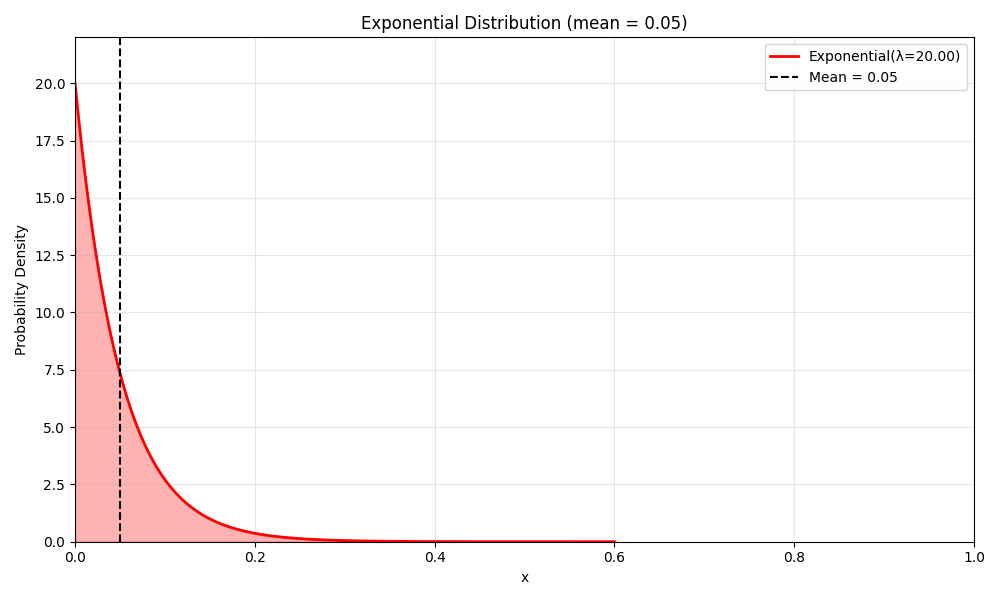
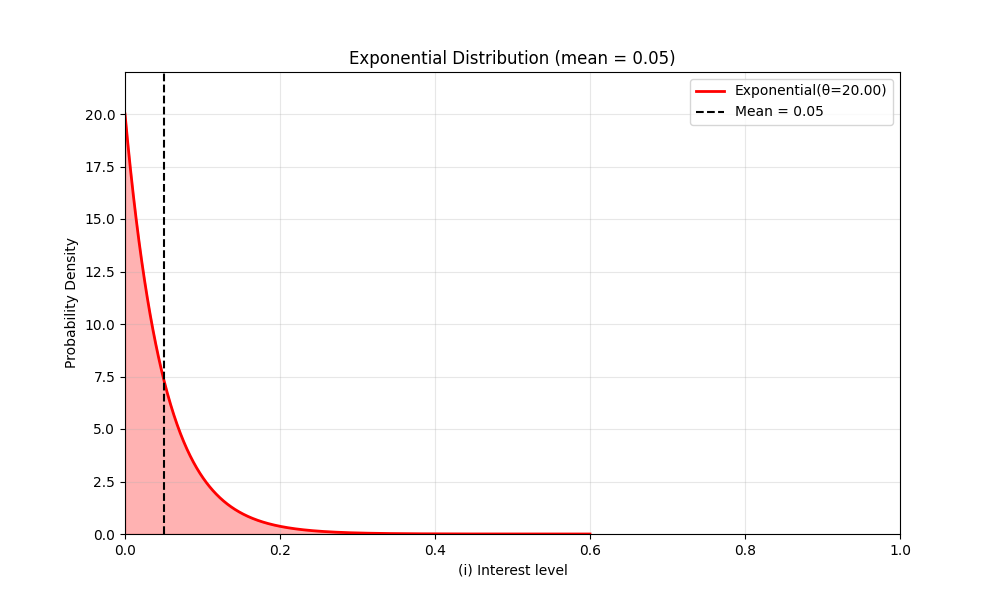
added 2nd class stuff

diff --git a/ML_2/2_Conjugate_Priors/gaussian.py b/ML_2/2_Conjugate_Priors/gaussian.py
@@ -1,0 +1,45 @@
+#!/usr/bin/env python
+
+import numpy as np
+import matplotlib.pyplot as plt
+from scipy.stats import norm
+
+# Parameters
+mu = 0.05  # mean
+sigma = 0.006  # standard deviation
+
+# Create points for x-axis (cover ±4 standard deviations)
+#x = np.linspace(mu - 4*sigma, mu + 4*sigma, 1000)
+x = np.linspace(0, 1, 1000)
+
+# Create Gaussian distribution
+y = norm.pdf(x, mu, sigma)
+
+# Create the plot
+plt.figure(figsize=(10, 6))
+plt.plot(x, y, 'b-', lw=2, label=f'N(μ={mu}, σ={sigma})')
+
+# Fill under the curve
+plt.fill_between(x, y, alpha=0.3, color='blue')
+
+# Add vertical line at mean
+plt.axvline(x=mu, color='red', linestyle='--', label='Mean = 0.05')
+
+# Add lines for standard deviation ranges
+plt.axvline(x=mu+sigma, color='green', linestyle=':', label='±1σ')
+plt.axvline(x=mu-sigma, color='green', linestyle=':')
+
+# Customize the plot
+plt.title(f'Gaussian Distribution (μ={mu}, σ={sigma})')
+plt.xlabel('(i) Interest Level')
+plt.ylabel('Probability Density')
+plt.grid(True, alpha=0.3)
+plt.legend()
+
+# Set axis limits
+plt.xlim(0, 1)
+plt.ylim(0, max(y) * 1.1)
+
+plt.savefig('gaussian.png')
+plt.tight_layout()
+plt.show()

diff --git a/ML_2/2_Conjugate_Priors/beta.py b/ML_2/2_Conjugate_Priors/beta.py
@@ -1,0 +1,36 @@
+#!/usr/bin/env python
+
+import numpy as np
+import matplotlib.pyplot as plt
+from scipy.stats import beta
+
+# Parameters for the Beta distribution
+alpha = 1  # Shape parameter 1
+beta_param = 19  # Shape parameter 2
+mean = alpha / (alpha + beta_param)  # Mean of the Beta distribution
+
+# Generate x values from 0 to 1
+x = np.linspace(0, 1, 1000)
+
+# Compute the PDF of the Beta distribution
+pdf = beta.pdf(x, alpha, beta_param)
+
+# Plot the Beta distribution
+plt.figure(figsize=(8, 6))
+plt.plot(x, pdf, label=f"Beta(α={alpha}, β={beta_param})", color="blue")
+
+# Add a vertical line at the mean value
+plt.axvline(mean, color="red", linestyle="--", label=f"Mean = {mean:.2f}")
+
+# Add title, labels, and legend
+plt.title(f"Beta Distribution (Mean = {mean:.2f})", fontsize=16)
+plt.xlabel("(i) Interest Level", fontsize=14)
+plt.ylabel("Probability Density", fontsize=14)
+plt.xlim(0, 1)  # Set x-axis range from 0 to 1
+plt.ylim(0, max(pdf) + 1)  # Adjust y-axis range for better visualization
+plt.grid(True, linestyle="--", alpha=0.6)
+plt.legend(fontsize=12)
+
+plt.savefig('beta.png')
+plt.tight_layout()
+plt.show()

diff --git a/ML_2/2_Conjugate_Priors/exponential.py b/ML_2/2_Conjugate_Priors/exponential.py
@@ -15,7 +15,7 @@ y = rate * np.exp(-rate * x)  # PDF: λe^(-λx)
 
 # Create the plot
 plt.figure(figsize=(10, 6))
-plt.plot(x, y, 'r-', lw=2, label=f'Exponential(λ={rate:.2f})')
+plt.plot(x, y, 'r-', lw=2, label=f'Exponential(θ={rate:.2f})')
 
 # Fill under the curve
 plt.fill_between(x, y, alpha=0.3, color='red')
@@ -25,7 +25,7 @@ plt.axvline(x=0.05, color='black', linestyle='--', label='Mean = 0.05')
 
 # Customize the plot
 plt.title(f'Exponential Distribution (mean = 0.05)')
-plt.xlabel('x')
+plt.xlabel('(i) Interest level')
 plt.ylabel('Probability Density')
 plt.grid(True, alpha=0.3)
 plt.legend()
@@ -34,5 +34,6 @@ plt.legend()
 plt.xlim(0, 1)
 plt.ylim(0, max(y) * 1.1)
 
+plt.savefig('exponential.png')
 plt.tight_layout()
 plt.show()

diff --git a/ML_2/2_Conjugate_Priors/solve_beta_function.py b/ML_2/2_Conjugate_Priors/solve_beta_function.py
@@ -1,0 +1,24 @@
+#!/usr/bin/env python
+
+from scipy.integrate import quad
+from scipy.special import beta as Ɓᴾʸ
+from scipy.stats import beta as pᴾʸ
+
+# Define the Beta function using numerical integration
+def B(α, β):
+	def f(t): return t**(α - 1) * (1 - t)**(β - 1)
+	result, _ = quad(f, 0, 1)
+	return result
+
+# Compare the results
+print("Your own Beta function: ", B(1, 2))
+print("Python's Beta function: ", Ɓᴾʸ(1, 2))
+
+
+def p(i, α, β):
+	return (i**(α-1) * (1 - i)**(β-1)) / B(α,β)
+
+# Compare the results
+print("Your own Beta probability of i = 0.4: ", p(0.4, 2, 4))
+print("Python's Beta probability of i = 0.4: ", pᴾʸ.pdf(0.4, 2, 4))
+

diff --git a/ML_2/2_Conjugate_Priors/python_implement_beta_function.py b/ML_2/2_Conjugate_Priors/python_implement_beta_function.py
@@ -1,0 +1,9 @@
+#!/usr/bin/env python
+
+from scipy.special import beta
+
+α = 1
+β = 2
+
+B_value = beta(α, β)
+print(B_value)
